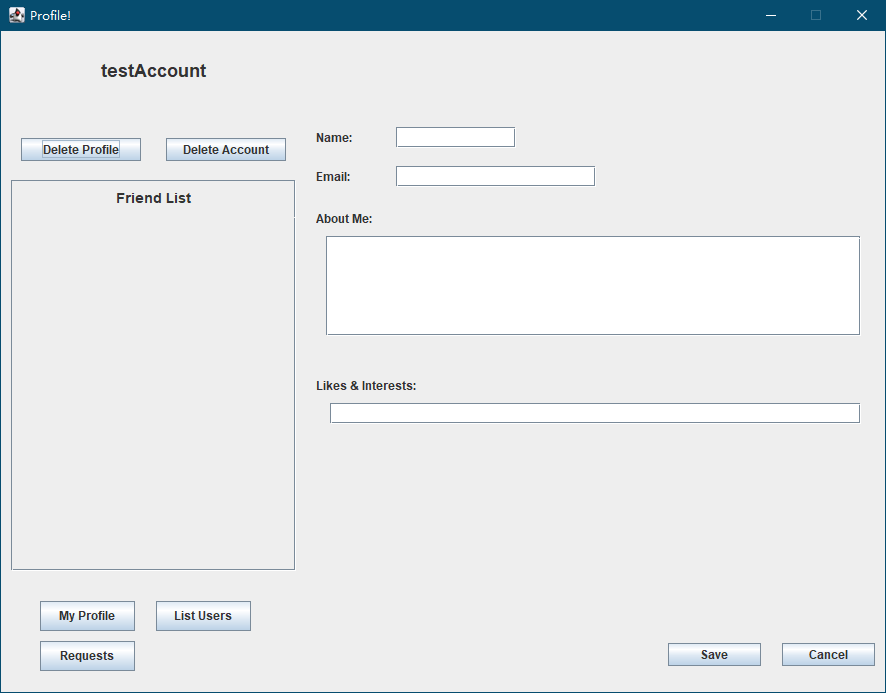
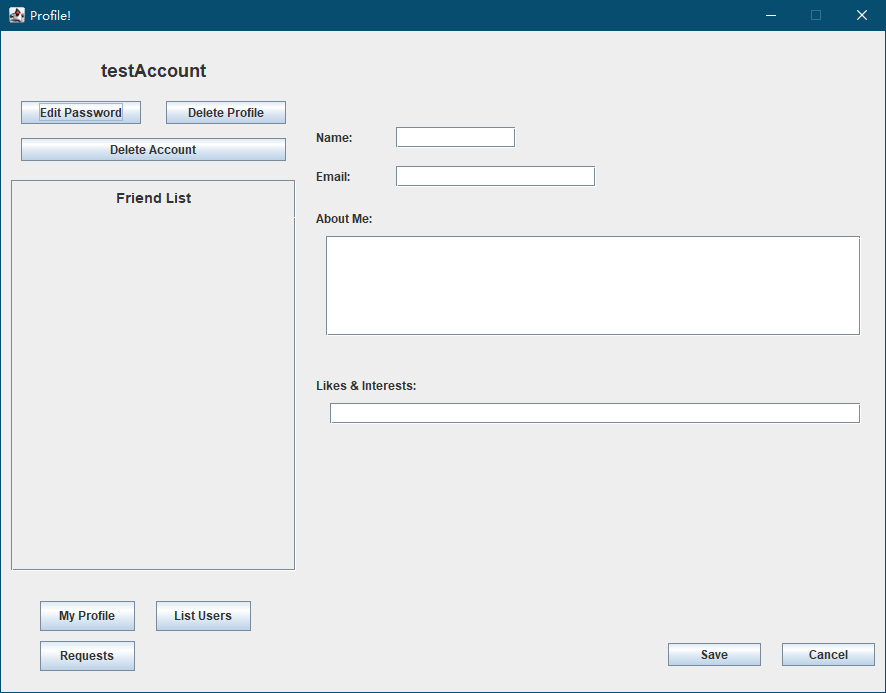
Update readme for editing password

Changed region(s): [[0.0, 0.1515, 0.3352, 0.1818], [0.0305, 0.2121, 0.3047, 0.2424]]

diff --git a/README.md b/README.md
@@ -39,6 +39,11 @@
 
 ![2._Main.png](Images/2._Main.png)
 
+- **Edit Password** Button:
+  - Edit the password of the current account.
+    - ![Images/4._Editing%20Password.png](Images/4._Editing%20Password.png)
+    - ![Images/4._Editing%20Password%202.png](Images/4._Editing%20Password%202.png)
+
 - **Delete Profile** Button:
   - If you choose "Yes" on the following confirmation message box, all your data will be reset to blank.
     - Deleting your profile will NOT remove you from your friends' friend list.
